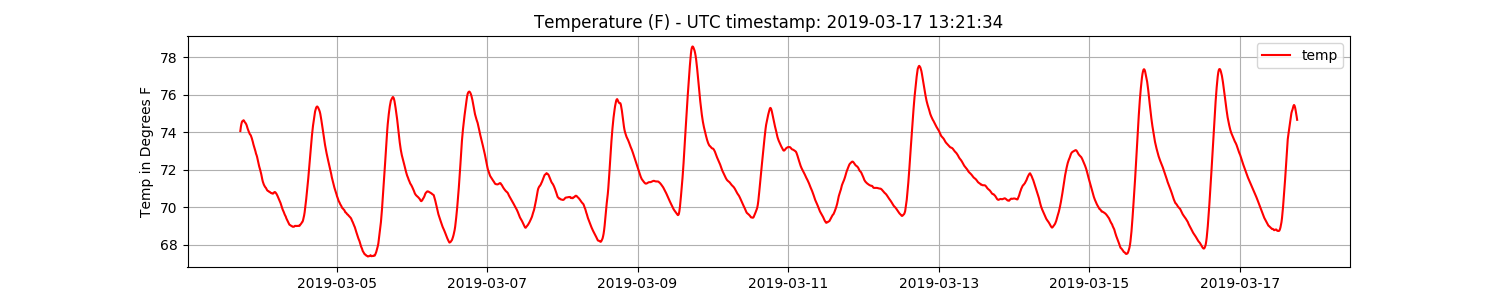
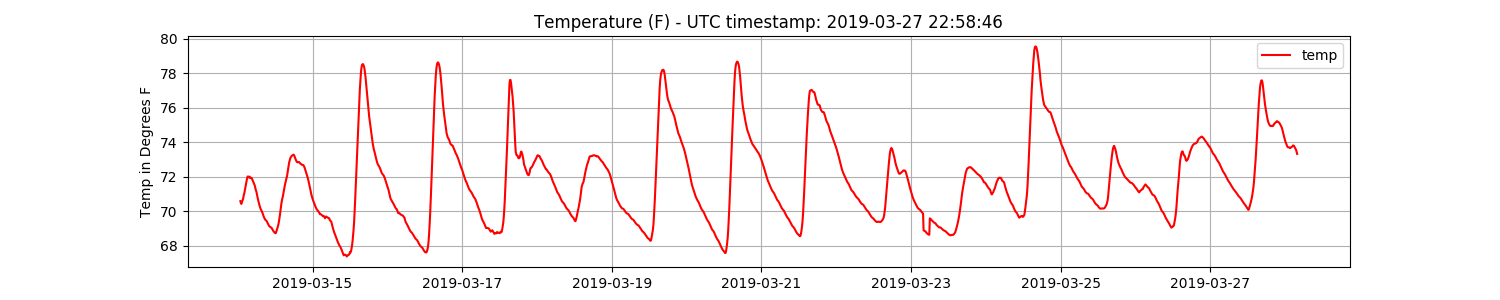
shortening rolling windows for all graphs

diff --git a/graphs.py b/graphs.py
@@ -37,7 +37,7 @@ class SensorGrapher():
 
     def plot_moisture_data(self):
         moist_df = self.df[['tray','top_soil','mid_soil']
-                          ].rolling(window=10).mean()
+                          ].rolling(window=6).mean()
         moist_df = moist_df[['top_soil', 'mid_soil', 'tray']].mask(moist_df < 350)
         fig, axs = plt.subplots(1, 1, figsize=(15,4))
         axs.plot(moist_df.index, ((moist_df[['top_soil', 'mid_soil', 'tray']]/(-1024))+1))
@@ -48,7 +48,7 @@ class SensorGrapher():
         plt.savefig('static/moisture.png')
 
     def plot_temp_data(self):
-        pdf = self.df[['temp']].rolling(window=18).mean()
+        pdf = self.df[['temp']].rolling(window=12).mean()
         fig, axs = plt.subplots(1, 1, figsize=(15,3))
         axs.plot(pdf, color='red')
         axs.set_title('Temperature (F) - UTC timestamp: '+ self.timestamp)
@@ -58,7 +58,7 @@ class SensorGrapher():
         plt.savefig('static/temp.png')
 
     def plot_humid_data(self):
-        pdf = self.df[['humid']].rolling(window=48).mean()
+        pdf = self.df[['humid']].rolling(window=36).mean()
         fig, axs = plt.subplots(1, 1, figsize=(15,3))
         axs.plot(pdf, color='lightblue')
         axs.set_title('Humidity - UTC timestamp: '+ self.timestamp)
